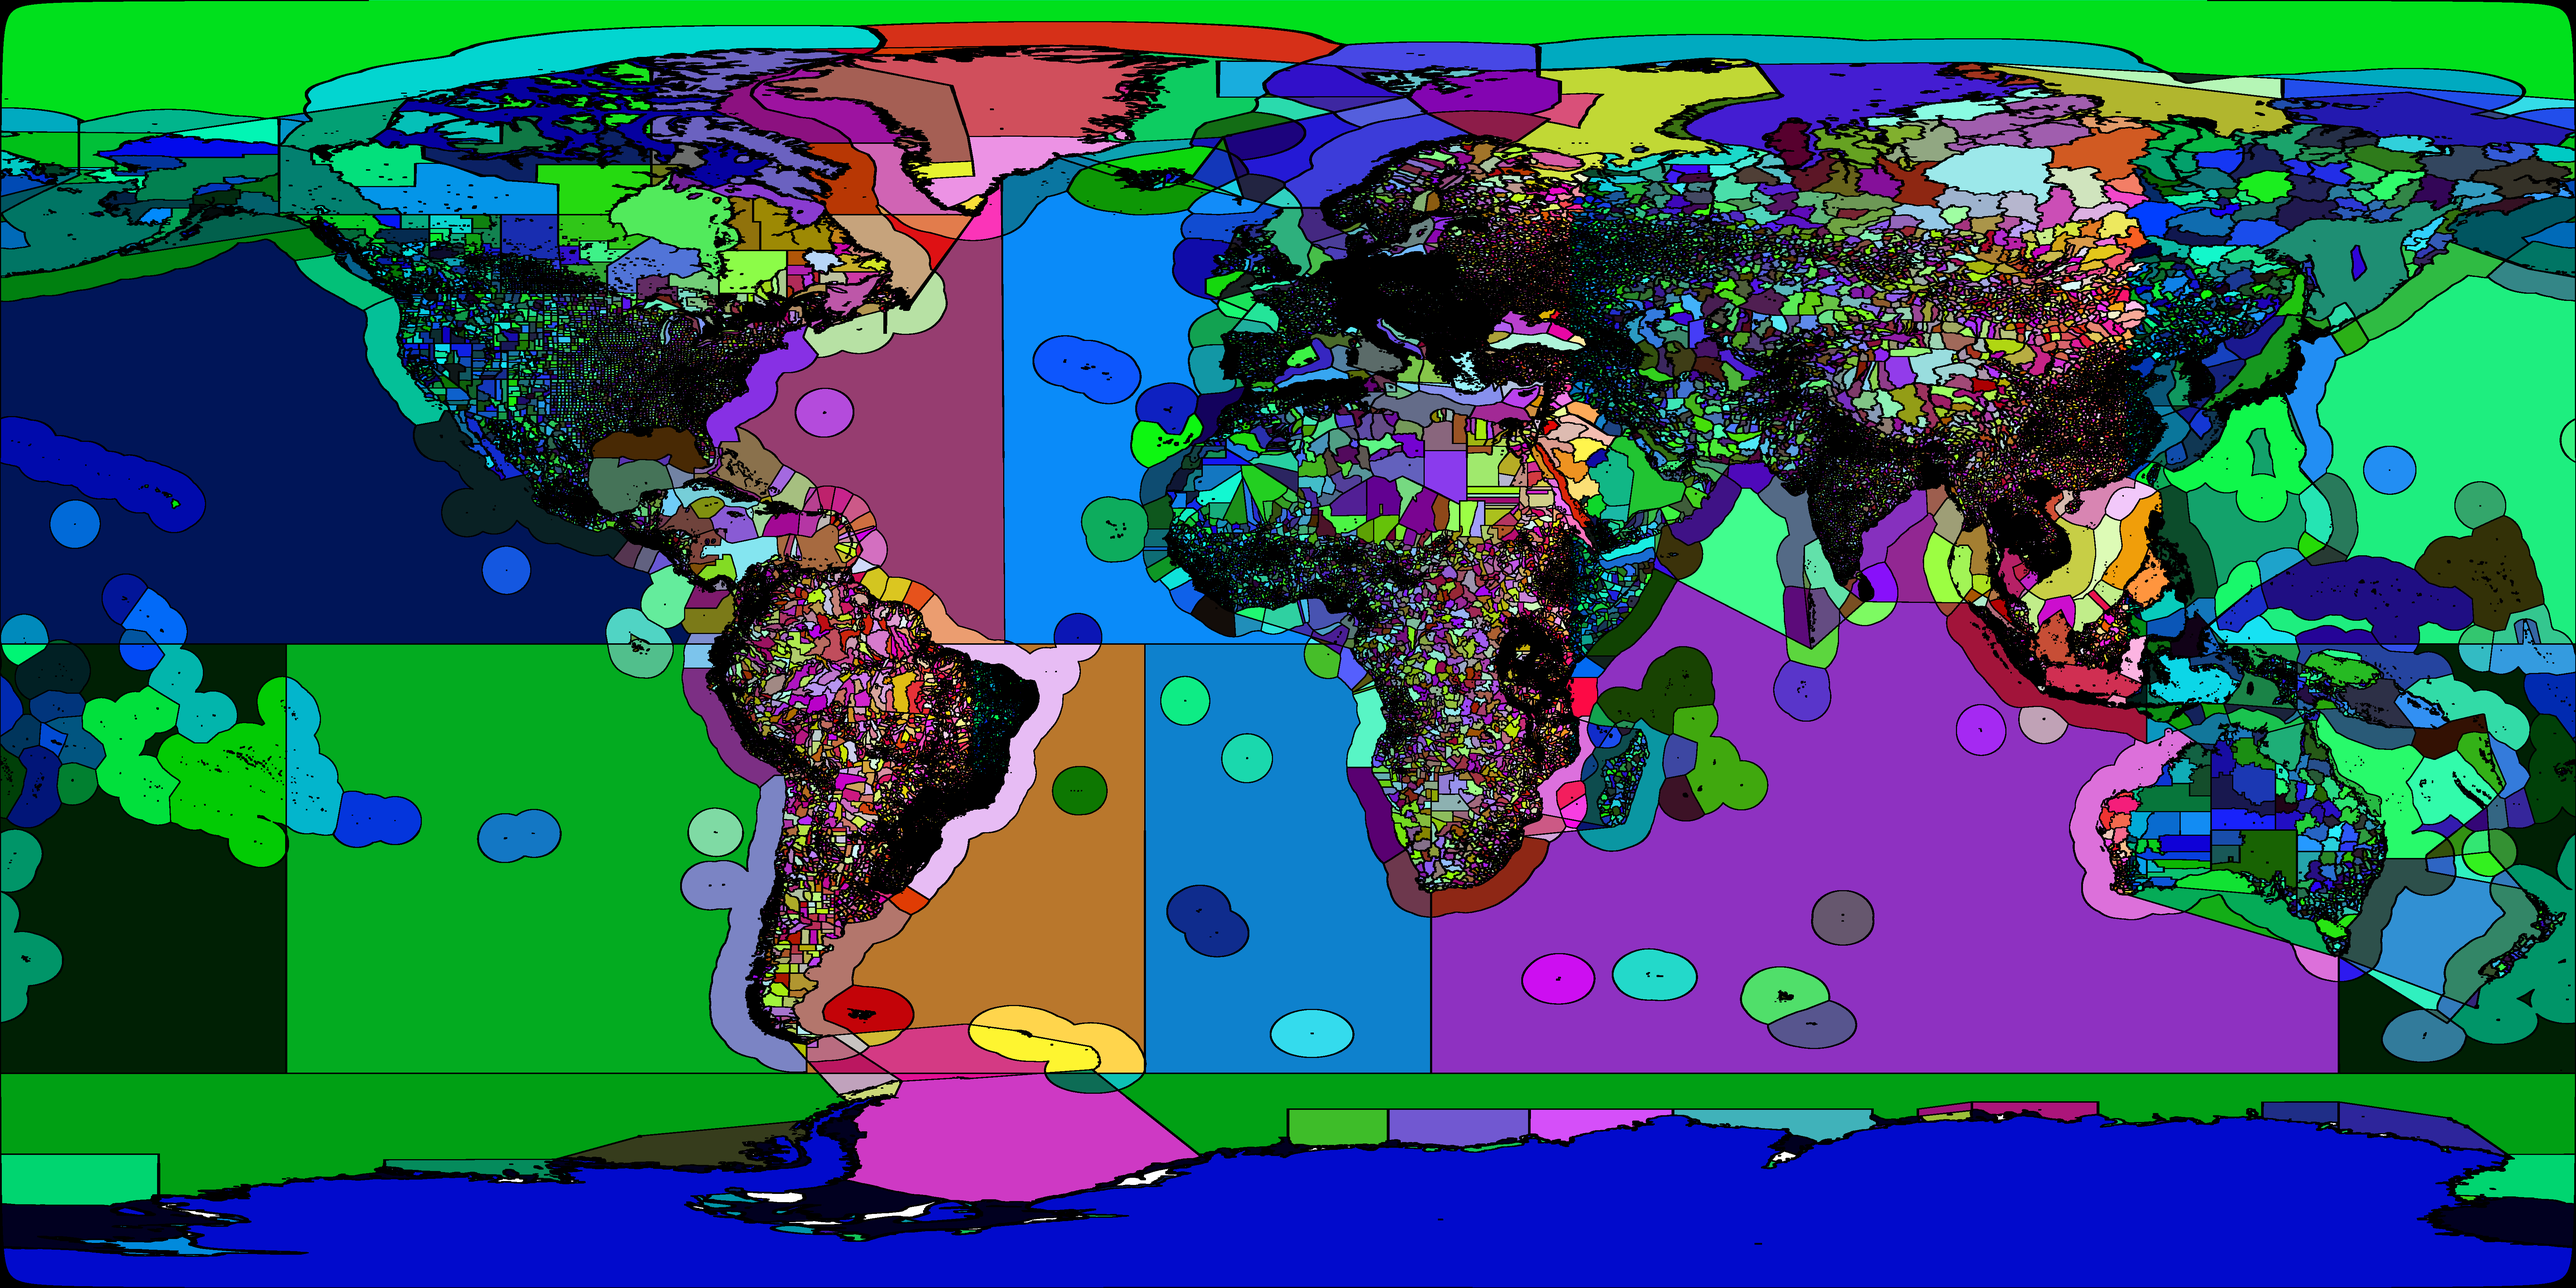
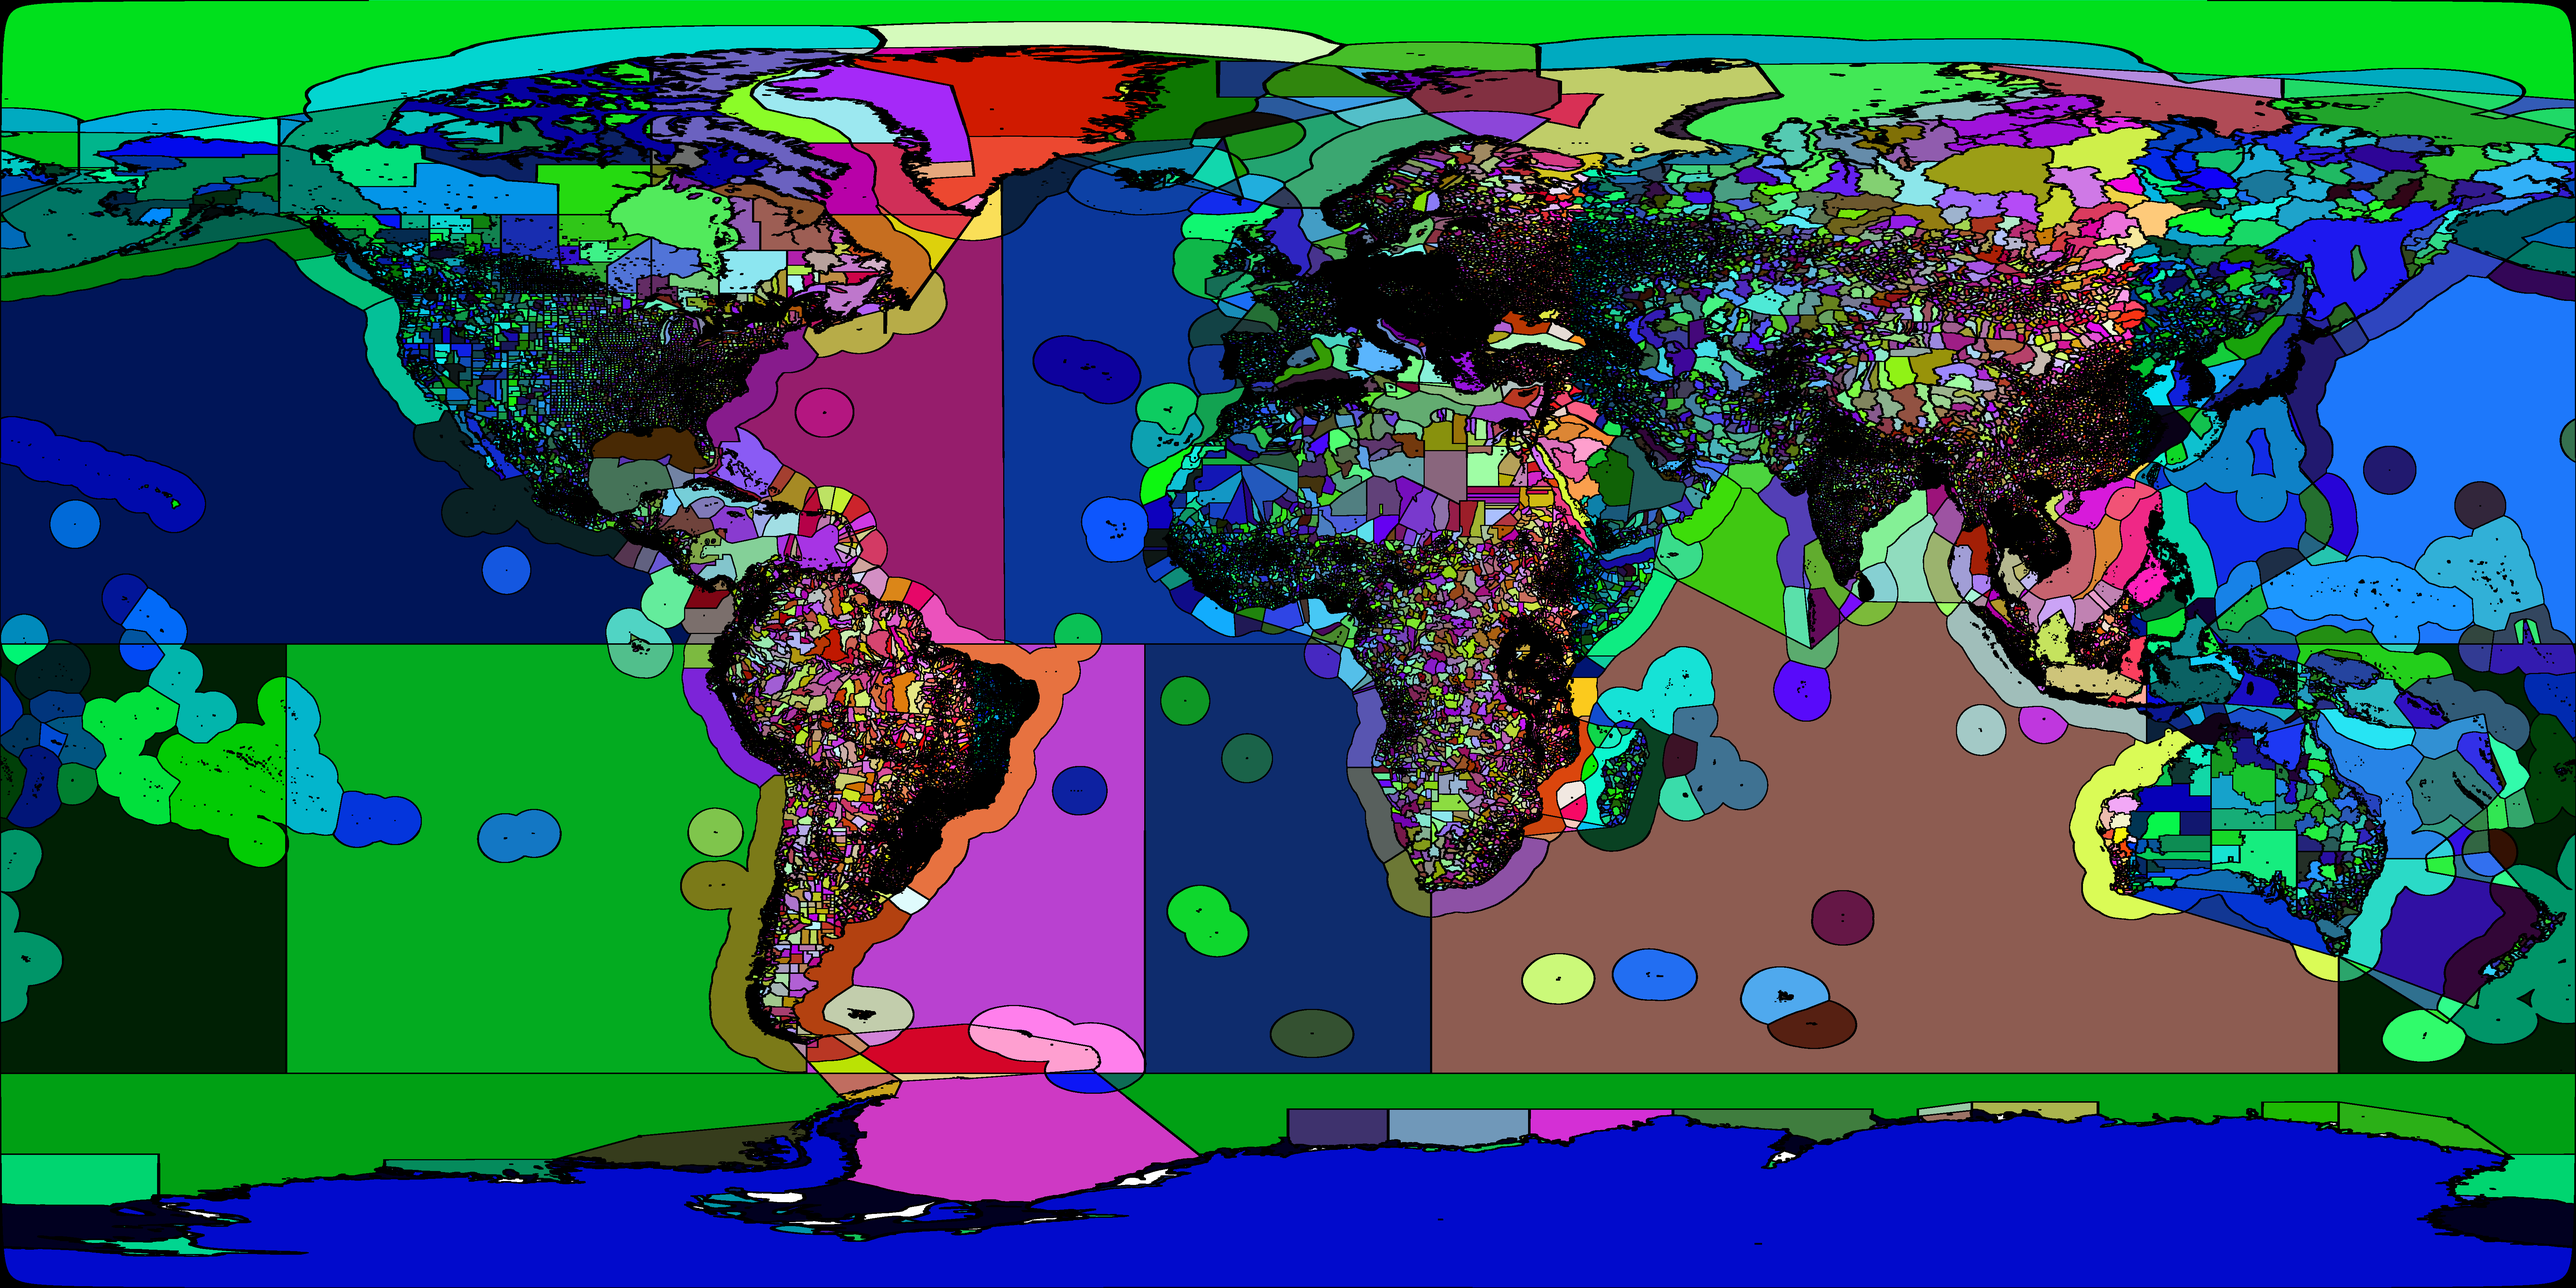
Add Continent layer.
See https://github.com/gbif/parsers/issues/26

diff --git a/geocode-ws/src/main/resources/public/interface.js b/geocode-ws/src/main/resources/public/interface.js
@@ -218,7 +218,7 @@ layers['baselayer-labels'] = new ol.layer.Tile({
 	source: new ol.source.TileImage({
 		projection: 'EPSG:4326',
 		tileGrid: tileGrid,
-		url: 'https://tile.gbif.org/4326/omt/{z}/{x}/{y}@2x.png?style=gbif-geyser',
+		url: 'https://tile.gbif.org/4326/omt/{z}/{x}/{y}@2x.png?style=gbif-natural-en',
 		tilePixelRatio: 2,
 		wrapX: false
 	}),
@@ -250,6 +250,21 @@ layers['political'] = new ol.layer.VectorTile({
 		wrapX: false,
 	}),
 	style: countryStyle(),
+});
+
+layers['continent'] = new ol.layer.VectorTile({
+	title: 'Continent',
+	renderMode: 'image',
+		source: new ol.source.VectorTile({
+		projection: 'EPSG:4326',
+		format: new ol.format.MVT(),
+		tileGrid: tileGrid,
+		tilePixelRatio: 8,
+		url: './tile/continent/{z}/{x}/{y}.mvt',
+		wrapX: false,
+	}),
+	style: countryStyle(),
+	visible: false
 });
 
 layers['eez'] = new ol.layer.VectorTile({
@@ -399,6 +414,7 @@ layers['centroids'] = new ol.layer.VectorTile({
 		wrapX: false,
 	}),
 	style: countryStyle(),
+	visible: false
 });
 
 var source = new ol.source.Vector({
@@ -425,17 +441,18 @@ var map = new ol.Map({
 		new ol.layer.Group({
 			title: 'Layer',
 			layers: [
-				layers['political'],
-				layers['eez'],
+				layers['centroids'],
+				layers['wgsrpd'],
+				layers['seavox'],
+				layers['iho'],
 				layers['gadm5'],
 				layers['gadm4'],
 				layers['gadm3'],
 				layers['gadm2'],
 				layers['gadm1'],
-				layers['iho'],
-				layers['seavox'],
-				layers['wgsrpd'],
-				layers['centroids'],
+				layers['eez'],
+				layers['continent'],
+				layers['political']
 			]
 		}),
 		vector

diff --git a/geocode-ws/src/main/java/org/gbif/geocode/ws/util/BitmapGenerator.java b/geocode-ws/src/main/java/org/gbif/geocode/ws/util/BitmapGenerator.java
@@ -116,6 +116,7 @@ public class BitmapGenerator implements CommandLineRunner {
     combineAllBitmaps(
         targetDirectory,
         "political",
+        "continent",
         "eez",
         "gadm0",
         "gadm1",
@@ -134,13 +135,14 @@ public class BitmapGenerator implements CommandLineRunner {
     ImmutableMap<String, Supplier<List<SvgShape>>> svgSuppliers =
         new ImmutableMap.Builder<String, Supplier<List<SvgShape>>>()
             .put("political", tileMapper::svgPolitical)
+            .put("continent", tileMapper::svgContinent)
             .put("eez", tileMapper::svgEez)
-            .put("gadm5", tileMapper::svgGadm5)
-            .put("gadm4", tileMapper::svgGadm4)
-            .put("gadm3", tileMapper::svgGadm3)
-            .put("gadm2", tileMapper::svgGadm2)
-            .put("gadm1", tileMapper::svgGadm1)
             .put("gadm0", tileMapper::svgGadm0)
+            .put("gadm1", tileMapper::svgGadm1)
+            .put("gadm2", tileMapper::svgGadm2)
+            .put("gadm3", tileMapper::svgGadm3)
+            .put("gadm4", tileMapper::svgGadm4)
+            .put("gadm5", tileMapper::svgGadm5)
             .put("iho", tileMapper::svgIho)
             .put("seavox", tileMapper::svgSeaVoX)
             .put("wgsrpd", tileMapper::svgWgsrpd)
@@ -196,9 +198,12 @@ public class BitmapGenerator implements CommandLineRunner {
 
       Stack<String> colours = MakeColours.makeColours(shapes.size());
 
+      Map<String, String> knownColours = new HashMap<>();
+
       for (SvgShape shape : shapes) {
-        filledSvg.write(
-            String.format(FILLED_PATH_FORMAT, shape.getId(), colours.pop(), shape.getShape()));
+        String colour = knownColours.getOrDefault(shape.getId(), colours.pop());
+        filledSvg.write(String.format(FILLED_PATH_FORMAT, shape.getId(), colour, shape.getShape()));
+        knownColours.put(shape.getId(), colour);
         hollowSvg.write(String.format(HOLLOW_PATH_FORMAT, shape.getId(), shape.getShape()));
       }
 

diff --git a/geocode-ws/src/main/java/org/gbif/geocode/ws/persistence/mapper/TileMapper.java b/geocode-ws/src/main/java/org/gbif/geocode/ws/persistence/mapper/TileMapper.java
@@ -17,6 +17,8 @@ import org.springframework.stereotype.Repository;
 public interface TileMapper {
 
   List<SvgShape> svgPolitical();
+  List<SvgShape> svgCentroids();
+  List<SvgShape> svgContinent();
   List<SvgShape> svgEez();
   List<SvgShape> svgGadm5();
   List<SvgShape> svgGadm4();
@@ -27,9 +29,10 @@ public interface TileMapper {
   List<SvgShape> svgIho();
   List<SvgShape> svgSeaVoX();
   List<SvgShape> svgWgsrpd();
-  List<SvgShape> svgCentroids();
 
   Tile tilePolitical(@Param("b1") double b1, @Param("b2") double b2, @Param("b3") double b3, @Param("b4") double b4);
+  Tile tileCentroids(@Param("b1") double b1, @Param("b2") double b2, @Param("b3") double b3, @Param("b4") double b4);
+  Tile tileContinent(@Param("b1") double b1, @Param("b2") double b2, @Param("b3") double b3, @Param("b4") double b4);
   Tile tileEez(@Param("b1") double b1, @Param("b2") double b2, @Param("b3") double b3, @Param("b4") double b4);
   Tile tileGadm5(@Param("b1") double b1, @Param("b2") double b2, @Param("b3") double b3, @Param("b4") double b4);
   Tile tileGadm4(@Param("b1") double b1, @Param("b2") double b2, @Param("b3") double b3, @Param("b4") double b4);
@@ -39,7 +42,6 @@ public interface TileMapper {
   Tile tileIho(@Param("b1") double b1, @Param("b2") double b2, @Param("b3") double b3, @Param("b4") double b4);
   Tile tileSeaVoX(@Param("b1") double b1, @Param("b2") double b2, @Param("b3") double b3, @Param("b4") double b4);
   Tile tileWgsrpd(@Param("b1") double b1, @Param("b2") double b2, @Param("b3") double b3, @Param("b4") double b4);
-  Tile tileCentroids(@Param("b1") double b1, @Param("b2") double b2, @Param("b3") double b3, @Param("b4") double b4);
 
   void toCache(@Param("layer") String layer, @Param("z") int z, @Param("x") long x, @Param("y") long y, @Param("tile") Tile tile, @Param("timeTaken") long timeTaken);
   Tile fromCache(@Param("layer") String layer, @Param("z") int z, @Param("x") long x, @Param("y") long y);

diff --git a/geocode-ws/src/main/java/org/gbif/geocode/ws/GeocodeWsApplication.java b/geocode-ws/src/main/java/org/gbif/geocode/ws/GeocodeWsApplication.java
@@ -2,6 +2,7 @@ package org.gbif.geocode.ws;
 
 import org.gbif.geocode.ws.layers.AbstractBitmapCachedLayer;
 import org.gbif.geocode.ws.layers.CentroidsLayer;
+import org.gbif.geocode.ws.layers.ContinentLayer;
 import org.gbif.geocode.ws.layers.EezLayer;
 import org.gbif.geocode.ws.layers.Gadm0Layer;
 import org.gbif.geocode.ws.layers.Gadm1Layer;
@@ -54,6 +55,7 @@ public class GeocodeWsApplication {
   @Bean
   public List<AbstractBitmapCachedLayer> layers(
       PoliticalLayer politicalLayer,
+      ContinentLayer continentLayer,
       EezLayer eezLayer,
       Gadm0Layer gadm0Layer,
       Gadm1Layer gadm1Layer,
@@ -66,6 +68,7 @@ public class GeocodeWsApplication {
 
     List<AbstractBitmapCachedLayer> layers = new ArrayList<>();
     layers.add(politicalLayer);
+    layers.add(continentLayer);
     layers.add(eezLayer);
     layers.add(gadm0Layer);
     layers.add(gadm1Layer);

diff --git a/geocode-ws/src/main/java/org/gbif/geocode/ws/resource/TilesResource.java b/geocode-ws/src/main/java/org/gbif/geocode/ws/resource/TilesResource.java
@@ -39,13 +39,14 @@ public class TilesResource {
   private static final List<String> layers =
       Arrays.asList(
           "political",
-          "eez",
           "centroids",
-          "gadm5",
-          "gadm4",
-          "gadm3",
-          "gadm2",
+          "continent",
+          "eez",
           "gadm1",
+          "gadm2",
+          "gadm3",
+          "gadm4",
+          "gadm5",
           "iho",
           "seavox",
           "wgsrpd");
@@ -80,6 +81,10 @@ public class TilesResource {
     switch (layer) {
       case "political":
         tile = tileMapper.tilePolitical(b[0].getX(), b[0].getY(), b[1].getX(), b[1].getY());
+        break;
+
+      case "continent":
+        tile = tileMapper.tileContinent(b[0].getX(), b[0].getY(), b[1].getX(), b[1].getY());
         break;
 
       case "eez":

diff --git a/geocode-ws/src/main/java/org/gbif/geocode/ws/layers/ContinentLayer.java b/geocode-ws/src/main/java/org/gbif/geocode/ws/layers/ContinentLayer.java
@@ -1,0 +1,21 @@
+package org.gbif.geocode.ws.layers;
+
+import org.gbif.geocode.ws.service.impl.MyBatisGeocoder;
+
+import org.slf4j.Logger;
+import org.slf4j.LoggerFactory;
+import org.springframework.stereotype.Component;
+
+@Component
+public class ContinentLayer extends AbstractBitmapCachedLayer {
+  public static Logger LOG = LoggerFactory.getLogger(MyBatisGeocoder.class);
+
+  public ContinentLayer() {
+    super(ContinentLayer.class.getResourceAsStream("continent.png"));
+  }
+
+  @Override
+  public String name() {
+    return "Continent";
+  }
+}
